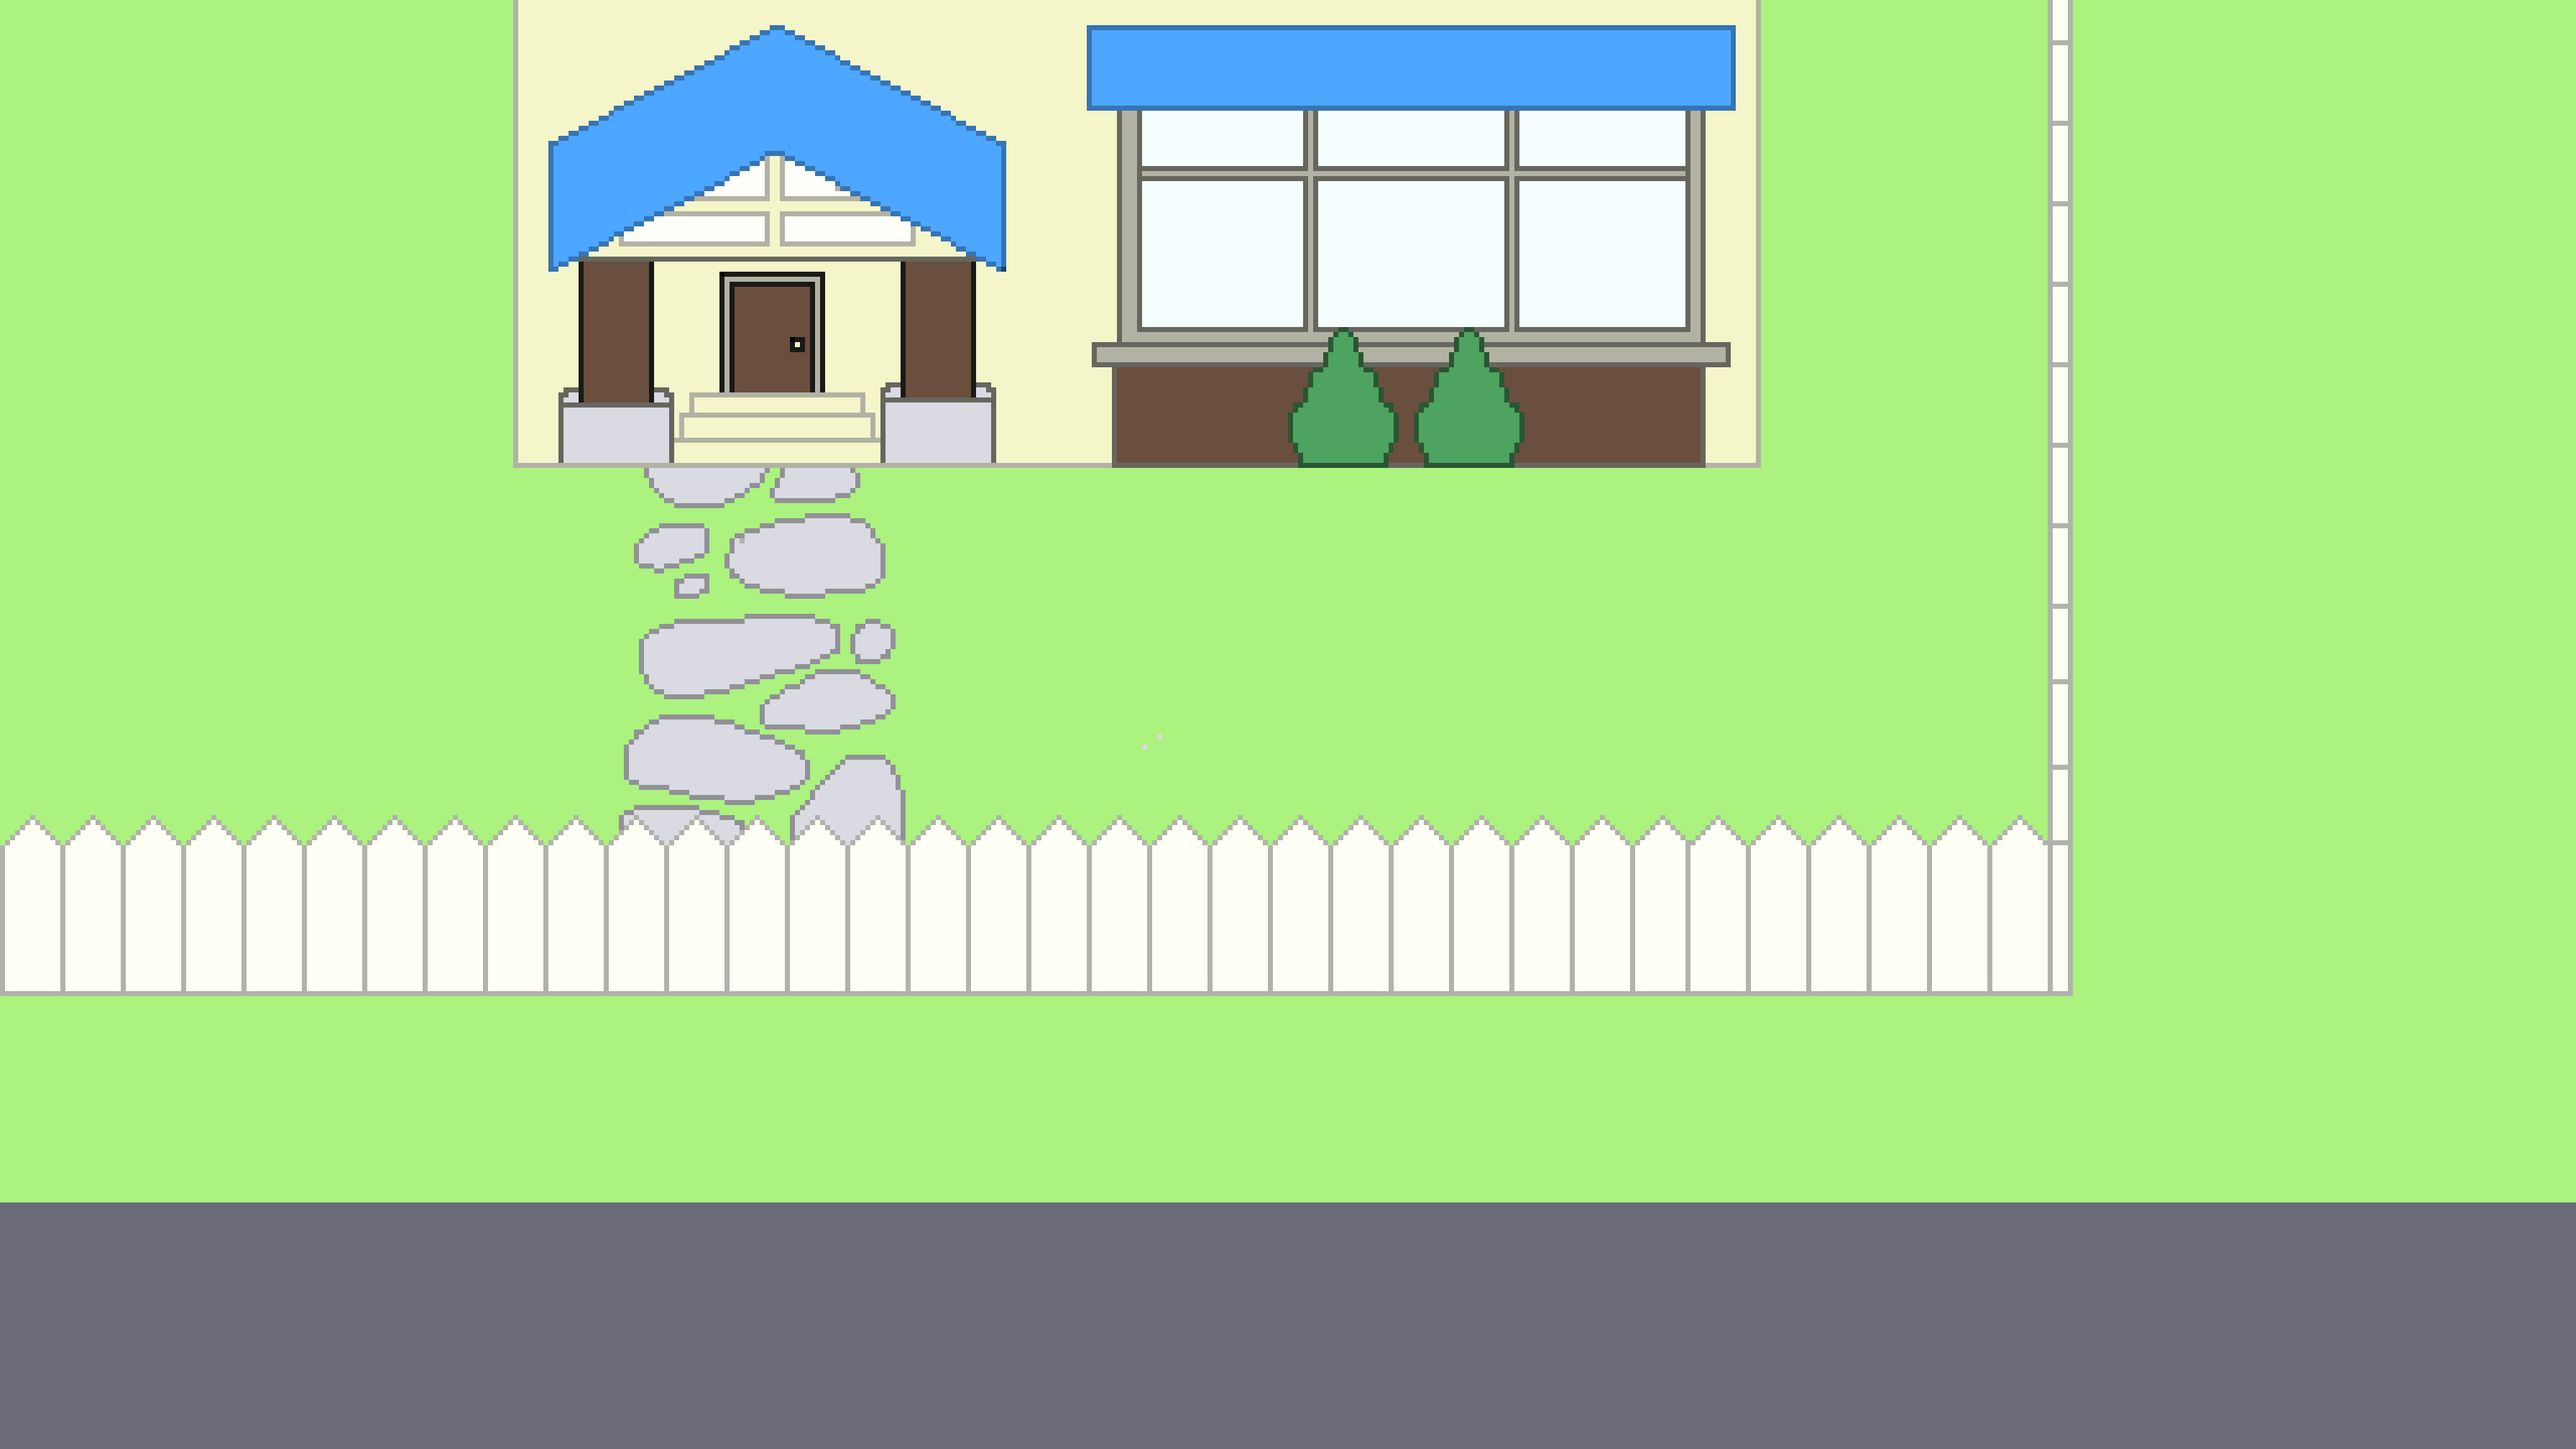
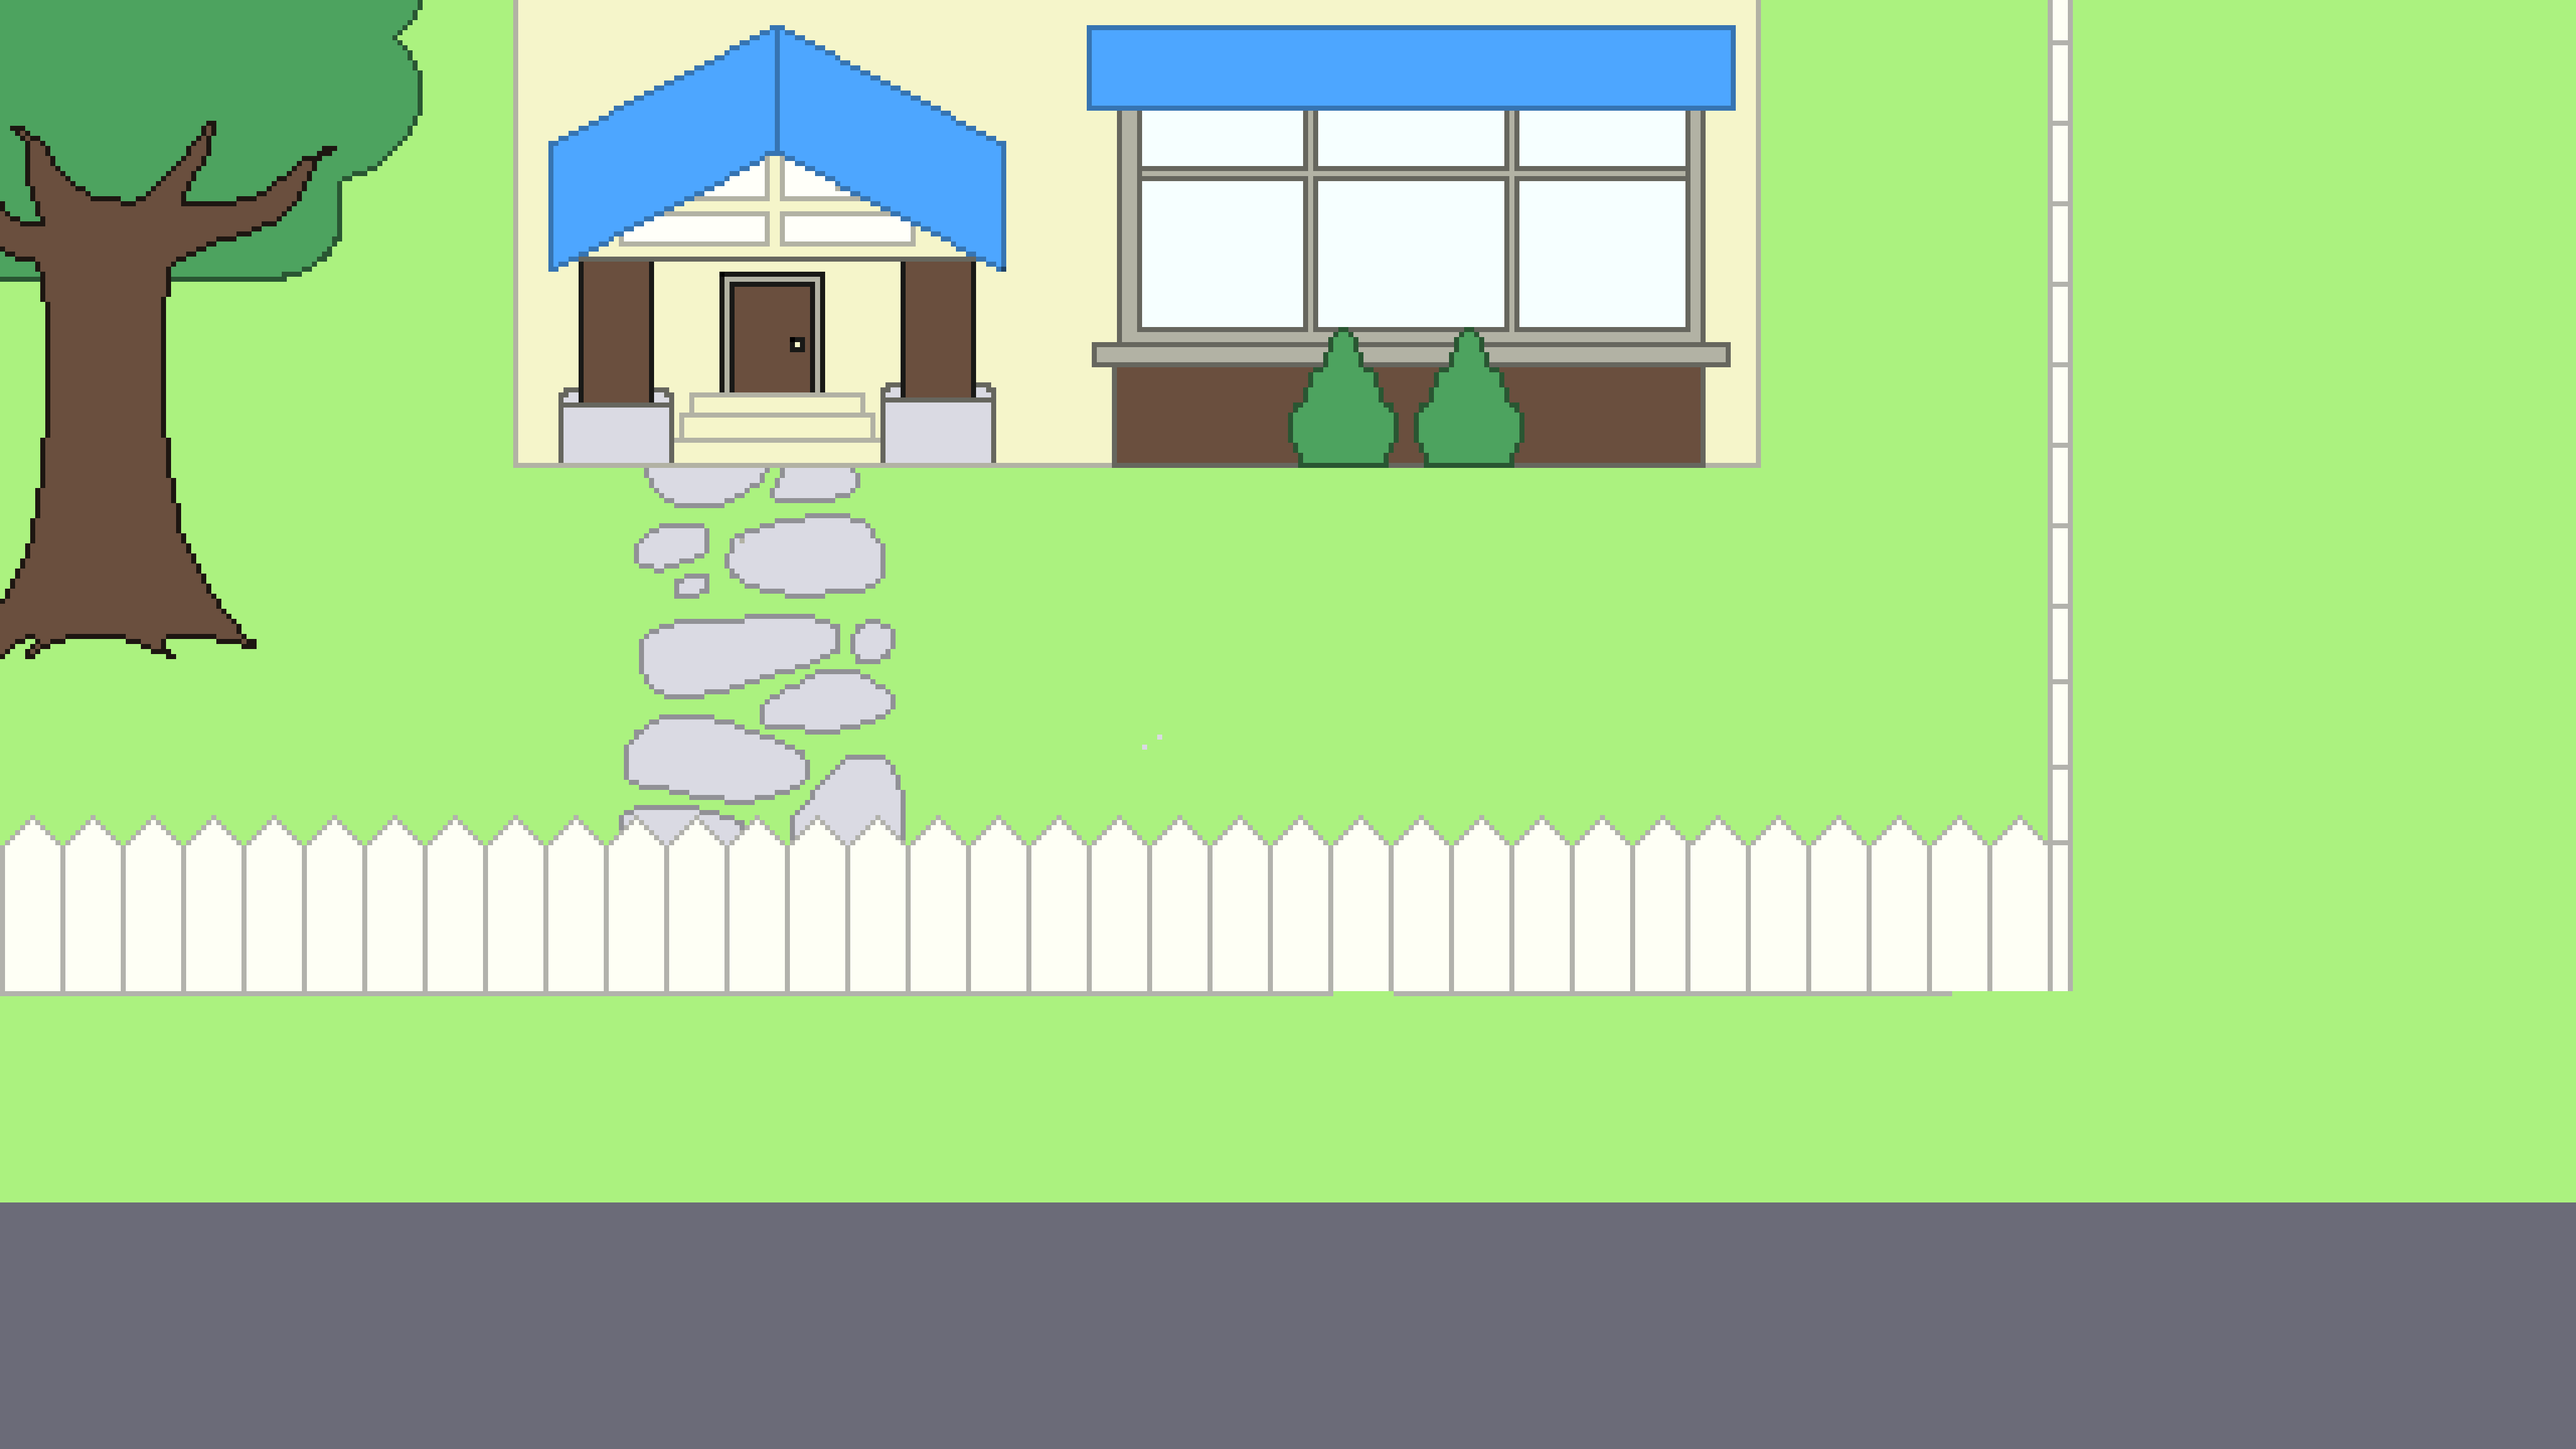
Changed a couple background sprites, added basic epilogue

Changed region(s): [[0.0, 0.0, 0.1875, 0.4688]]

diff --git a/Assets/Scripts/EarlyWarning/EW_SceneManager.cs b/Assets/Scripts/EarlyWarning/EW_SceneManager.cs
@@ -11,6 +11,8 @@ public class EW_SceneManager : MonoBehaviour
     public GameObject actorParent;
     public bool storySelected = false;
 
+    private bool ranOutOfTime = false;
+
     //Task tracking variables
     //currentPhase is changed in UseUpTime()
     //Each task will be set to currentPhase when it is completed
@@ -88,6 +90,7 @@ public class EW_SceneManager : MonoBehaviour
     //When the player runs out of time by doing enough actions, directs them to the appropriate node
     public void TimesUp()
     {
+        ranOutOfTime = true;
         EW_EventSystem.LeaveStoryNodeEvent -= TimesUp;
         ChangeStoryNode(2000);
     }
@@ -96,23 +99,41 @@ public class EW_SceneManager : MonoBehaviour
     //Called by Epilogue node after the player either runs out of time or escapes early
     public void ShowEpilogue()
     {
+        if (actorParent != null)
+        {
+            Destroy(actorParent);
+        }
         background.sprite = Resources.Load<Sprite>("EarlyWarning/Art/PaulEpilogue");
 
-        EW_DialogueLine line1 = new EW_DialogueLine("This is the epilogue", "Epilogue", true);
+        List<EW_DialogueLine> lines = new List<EW_DialogueLine>();
 
-        //if node 2000 visited(ran out of time/didn't hit escape in time)
-        //  EW_DialogueLine line1 = new EW_DialogueLine("Paul used his Pool as a last ditch escape method. Later, he was taken by medical crews to a local rendezvous point at the highschool where he was treated for injuries");
-        //else (means they did some taks and hit escape at decent time which is GOOD)
-        //  if backed car into driveway
-        //      EW_DialogueLine line1 = new EW_DialogueLine("With his car ready to go, Paul sped off to a local church where he was examined by local EMTS");
-        //  else if talked to aldo(didn't back car in + did some tasks)
-        //      EW_DialogueLine line1 = new EW_DialogueLine("Paul runs over to Aldo's task asking if he can join them in escaping. They all quickly exit Marin county to stay at Aldo's parents vacation home in Napa, far from the fire.");
-        //  else
-        //      if(mow lawn)
-        //          EW_DialogueLine line1 = new EW_DialogueLine("Having cut the lawn earlier, Paul is able to use an escape trail down the road from his property. He is met by firefighters who assist him evacuating.");
-        //      else if(cut tree and gutter)
-        //          EW_DialogueLine line1 = new EW_DialogueLine("Having cut the tree and gutter before a red flag day, Paul is able to escape through the back of his property. He is picked up by a firetruck while walking down the auxilary trail.");               
-        EW_DialogueNode epilogueNode = new EW_DialogueNode(new List<EW_DialogueLine> { line1 });
+        if (ranOutOfTime)
+        {
+            lines.Add(new EW_DialogueLine("Deciding to evacuate too late, Paul used his Pool as a last ditch protection method. Later, he was taken by medical crews to a local rendezvous point at the highschool where he was treated for injuries"));
+        }
+        else
+        {
+            if (tasksDone["moveCar"] != "notDone")
+            {
+                lines.Add(new EW_DialogueLine("With his car ready to go, Paul sped off to the local rendezvous point"));
+            }
+            else if (tasksDone["neighborTalk"] != "notDone")
+            {
+                lines.Add(new EW_DialogueLine("Paul runs over to Aldo's asking if he can join them in evacua. They all quickly exit Marin county to stay at Aldo's parents vacation home in Napa, far from the fire."));
+            }
+            else
+            {
+                if (tasksDone["cutLawn"] != "Red Flag Day" || tasksDone["cutTree"] != "Red Flag Day")
+                {
+                    lines.Add(new EW_DialogueLine("Having cut the lawn and tree before a red flag day, Paul is able to use an escape trail down the road from his property. He is met by firefighters who assist him evacuating."));
+                }
+                else
+                {
+                    lines.Add(new EW_DialogueLine("Having done some tasks before a red flag day, Paul is able to use an escape trail down the road from his property. He is met by firefighters who assist him evacuating."));
+                }
+            }
+        }
+        EW_DialogueNode epilogueNode = new EW_DialogueNode(lines);
         epilogueNode.nextNode = -1;
         curNode = epilogueNode;
     }
